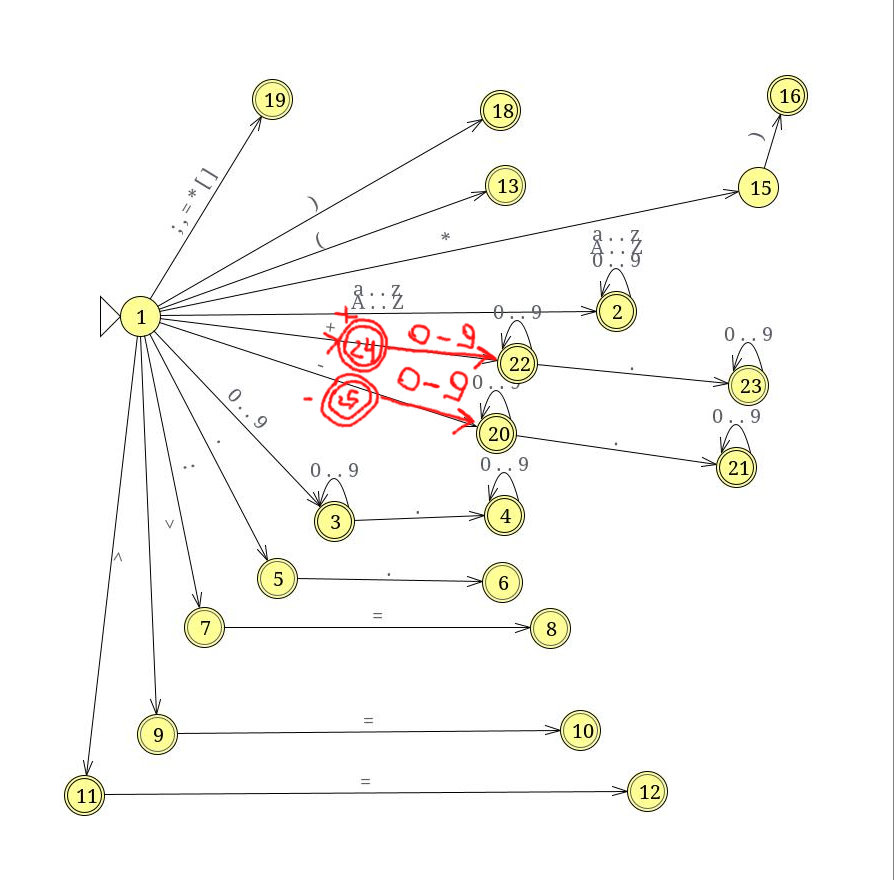
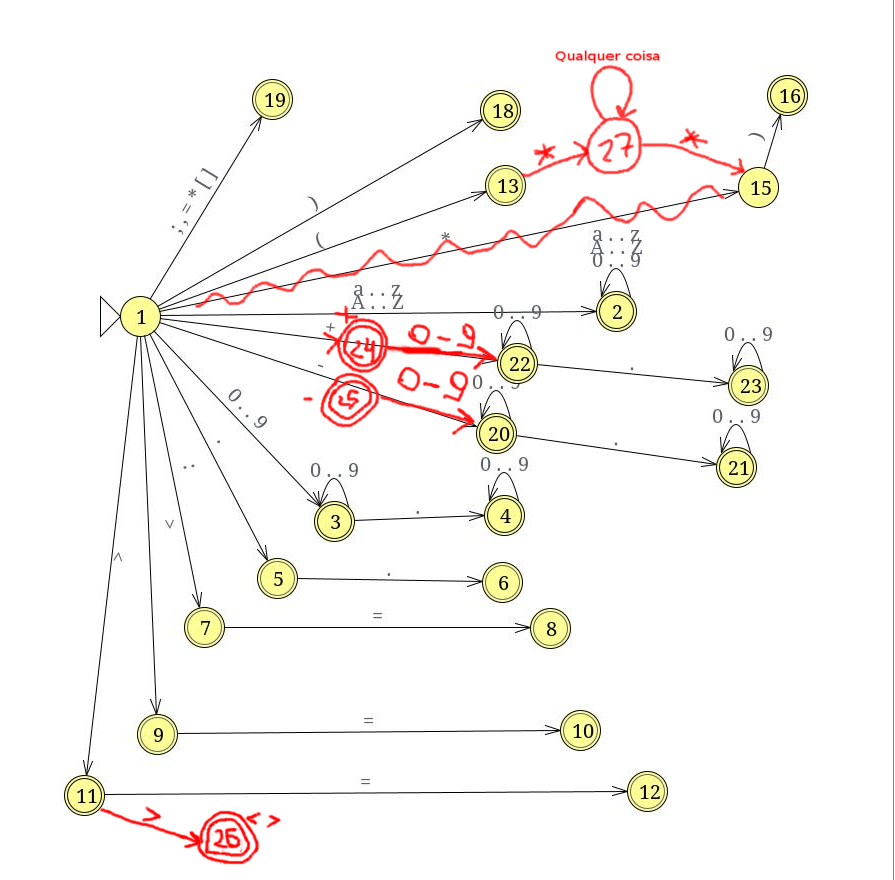
Lexico pronto

diff --git a/lexico.py b/lexico.py
@@ -71,6 +71,10 @@ def get_column(c):
         return 16
     elif c == '-':
         return 17
+    elif c == ';':
+        return 18
+    elif c == '/':
+        return 19
     else:
         return -1
 
@@ -81,7 +85,7 @@ def is_final(state):
         return 0
     elif state == 14:
         return 0
-    elif state > 24 or state < 0:
+    elif state > 25 or state < 0:
         return 0
     else:
         return 1
@@ -124,6 +128,8 @@ def get_token(state):
         return "Mais"
     elif state == 24:
         return "Menos"
+    elif state == 25:
+        return "Diferente"
     else:
         return ""
 
@@ -146,6 +152,8 @@ def get_special_token(c):
         return "Chave_esq"
     elif c == '}':
         return "Chave_dir"
+    elif c == '/':
+        return "Divisao"
 
 #Se o caractere passado estiver em [a,b], retorna 1
 #Retorna 0, caso contrario
@@ -171,37 +179,39 @@ def identifiers(dic, string, str_final):
 
     str_final = str_final + "\n"
     return str_final
-#   a-z, 0-9, . , ' , , , : , ) , = , * , [ , ] , { , } , < , > , ( ,  + , -
+#   a-z, 0-9, . , ' , , , : , ) , = , * , [ , ] , { , } , < , > , ( ,  + , - , ; , /
 
 states = [
-    [1 , 2  , 4 , 18, 18, 6, 17, 18, 18, 18, 18, 18, 18, 10, 8 , 12 , 23, 24], #Estado 0
-    [1 , 1  , -1, -1, -1, -1, -1, -1, -1, -1, -1, -1, -1, -1, -1, -1, -1, -1], #Estado 1
-    [-1, 2  , 3 , -1, -1, -1, -1, -1, -1, -1, -1, -1, -1, -1, -1, -1, -1, -1], #Estado 2
-    [-1, 3  , -1, -1, -1, -1, -1, -1, -1, -1, -1, -1, -1, -1, -1, -1, -1, -1], #Estado 3
-    [-1, -1 , 5 , -1, -1, -1, -1, -1, -1, -1, -1, -1, -1, -1, -1, -1, -1, -1], #Estado 4
-    [-1, -1 , -1, -1, -1, -1, -1, -1, -1, -1, -1, -1, -1, -1, -1, -1, -1, -1], #Estado 5
-    [-1, -1 , -1 , -1, -1, -1, -1, 7, -1, -1, -1, -1, -1, -1, -1, -1, -1, -1], #Estado 6
-    [-1, -1 , -1, -1, -1, -1, -1, -1, -1, -1, -1, -1, -1, -1, -1, -1, -1, -1], #Estado 7
-    [-1, -1 , -1, -1, -1, -1, -1, 9 , -1, -1, -1, -1, -1, -1, -1, -1, -1, -1], #Estado 8
-    [-1, -1 , -1, -1, -1, -1, -1, -1, -1, -1, -1, -1, -1, -1, -1, -1, -1, -1], #Estado 9
-    [-1, -1 , -1, -1, -1, -1, -1, 11, -1, -1, -1, -1, -1, -1, -1, -1, -1, -1], #Estado 10
-    [-1, -1 , -1, -1, -1, -1, -1, -1, -1, -1, -1, -1, -1, -1, -1, -1, -1, -1], #Estado 11
-    [-1, -1 , -1, -1, -1, -1, -1, -1, -1, -1, -1, -1, -1, -1, -1, -1, -1, -1], #Estado 12
-    [-1, -1 , -1, -1, -1, -1, -1, -1, -1, -1, -1, -1, -1, -1, -1, -1, -1, -1], #Estado 13
-    [-1, -1 , -1, -1, -1, -1, 15, -1, -1, -1, -1, -1, -1, -1, -1, -1, -1, -1], #Estado 14
-    [-1, -1 , -1, -1, -1, -1, -1, -1, -1, -1, -1, -1, -1, -1, -1, -1, -1, -1], #Estado 15
-    [-1, -1 , -1, -1, -1, -1, -1, -1, -1, -1, -1, -1, -1, -1, -1, -1, -1, -1], #Estado 16
-    [-1, -1 , -1, -1, -1, -1, -1, -1, -1, -1, -1, -1, -1, -1, -1, -1, -1, -1], #Estado 17
-    [-1, -1 , -1, -1, -1, -1, -1, -1, -1, -1, -1, -1, -1, -1, -1, -1, -1, -1], #Estado 18
-    [-1, 19 , 20, -1, -1, -1, -1, -1, -1, -1, -1, -1, -1, -1, -1, -1, -1, -1], #Estado 19
-    [-1, 20 , -1, -1, -1, -1, -1, -1, -1, -1, -1, -1, -1, -1, -1, -1, -1, -1], #Estado 20
-    [-1, 21 , 22, -1, -1, -1, -1, -1, -1, -1, -1, -1, -1, -1, -1, -1, -1, -1], #Estado 21
-    [-1, 22 , -1, -1, -1, -1, -1, -1, -1, -1, -1, -1, -1, -1, -1, -1, -1, -1], #Estado 22
-    [-1, 21 , -1, -1, -1, -1, -1, -1, -1, -1, -1, -1, -1, -1, -1, -1, -1, -1], #Estado 23
-    [-1, 19 , -1, -1, -1, -1, -1, -1, -1, -1, -1, -1, -1, -1, -1, -1, -1, -1]  #Estado 24
+    [1 , 2  , 4 , 18, 18, 6, 17, 18, 18, 18, 18, 18, 18, 10, 8 , 12 , 23, 24 , 18,18], #Estado 0
+    [1 , 1  , -1, -1, -1, -1, -1, -1, -1, -1, -1, -1, -1, -1, -1, -1, -1, -1 ,-1 ,-1], #Estado 1
+    [-1, 2  , 3 , -1, -1, -1, -1, -1, -1, -1, -1, -1, -1, -1, -1, -1, -1, -1 ,-1 ,-1], #Estado 2
+    [-1, 3  , -1, -1, -1, -1, -1, -1, -1, -1, -1, -1, -1, -1, -1, -1, -1, -1 ,-1 ,-1], #Estado 3
+    [-1, -1 , 5 , -1, -1, -1, -1, -1, -1, -1, -1, -1, -1, -1, -1, -1, -1, -1 ,-1 ,-1], #Estado 4
+    [-1, -1 , -1, -1, -1, -1, -1, -1, -1, -1, -1, -1, -1, -1, -1, -1, -1, -1 ,-1 ,-1], #Estado 5
+    [-1, -1 , -1 , -1, -1, -1, -1, 7, -1, -1, -1, -1, -1, -1, -1, -1, -1, -1 ,-1 ,-1], #Estado 6
+    [-1, -1 , -1, -1, -1, -1, -1, -1, -1, -1, -1, -1, -1, -1, -1, -1, -1, -1 ,-1 ,-1], #Estado 7
+    [-1, -1 , -1, -1, -1, -1, -1, 9 , -1, -1, -1, -1, -1, -1, -1, -1, -1, -1 ,-1 ,-1], #Estado 8
+    [-1, -1 , -1, -1, -1, -1, -1, -1, -1, -1, -1, -1, -1, -1, -1, -1, -1, -1 ,-1 ,-1], #Estado 9
+    [-1, -1 , -1, -1, -1, -1, -1, 11, -1, -1, -1, -1, -1, -1, 25, -1, -1, -1 ,-1 ,-1], #Estado 10
+    [-1, -1 , -1, -1, -1, -1, -1, -1, -1, -1, -1, -1, -1, -1, -1, -1, -1, -1 ,-1 ,-1], #Estado 11
+    [-1, -1 , -1, -1, -1, -1, -1, -1, 26, -1, -1, -1, -1, -1, -1, -1, -1, -1 ,-1 ,-1], #Estado 12
+    [-1, -1 , -1, -1, -1, -1, -1, -1, -1, -1, -1, -1, -1, -1, -1, -1, -1, -1 ,-1 ,-1], #Estado 13
+    [-1, -1 , -1, -1, -1, -1, 15, -1, -1, -1, -1, -1, -1, -1, -1, -1, -1, -1 ,-1 ,-1], #Estado 14
+    [-1, -1 , -1, -1, -1, -1, -1, -1, -1, -1, -1, -1, -1, -1, -1, -1, -1, -1 ,-1 ,-1], #Estado 15
+    [-1, -1 , -1, -1, -1, -1, -1, -1, -1, -1, -1, -1, -1, -1, -1, -1, -1, -1 ,-1 ,-1], #Estado 16
+    [-1, -1 , -1, -1, -1, -1, -1, -1, -1, -1, -1, -1, -1, -1, -1, -1, -1, -1 ,-1 ,-1], #Estado 17
+    [-1, -1 , -1, -1, -1, -1, -1, -1, -1, -1, -1, -1, -1, -1, -1, -1, -1, -1 ,-1 ,-1], #Estado 18
+    [-1, 19 , 20, -1, -1, -1, -1, -1, -1, -1, -1, -1, -1, -1, -1, -1, -1, -1 ,-1 ,-1], #Estado 19
+    [-1, 20 , -1, -1, -1, -1, -1, -1, -1, -1, -1, -1, -1, -1, -1, -1, -1, -1 ,-1 ,-1], #Estado 20
+    [-1, 21 , 22, -1, -1, -1, -1, -1, -1, -1, -1, -1, -1, -1, -1, -1, -1, -1 ,-1 ,-1], #Estado 21
+    [-1, 22 , -1, -1, -1, -1, -1, -1, -1, -1, -1, -1, -1, -1, -1, -1, -1, -1 ,-1 ,-1], #Estado 22
+    [-1, 21 , -1, -1, -1, -1, -1, -1, -1, -1, -1, -1, -1, -1, -1, -1, -1, -1 ,-1 ,-1], #Estado 23
+    [-1, 19 , -1, -1, -1, -1, -1, -1, -1, -1, -1, -1, -1, -1, -1, -1, -1, -1 ,-1 ,-1], #Estado 24
+    [-1, -1 , -1, -1, -1, -1, -1, -1, -1, -1, -1, -1, -1, -1, -1, -1, -1, -1 ,-1 ,-1], #Estado 25
+    [-1, -1 , -1, -1, -1, -1, -1, -1, -1, -1, -1, -1, -1, -1, -1, -1, -1, -1 ,-1 ,-1]  #Estado 26
 ]
 print("Analisador Lexico\nPara sair, digite \'exit()\'\n\n\n")
-line = input("Digite sua entrada de dados: ")
+line = input("Digite sua entrada de dados: ").lower()
 
 #Inicializando tabela de palavras-chave/identificadores
 dic = SymbolsTab()
@@ -224,7 +234,6 @@ while line != '' :
         if is_char(c) and current == 0:
             start_char = j
 
-
         j = j + 1
         column = get_column(c)
         #Se o simbolo lido pertencer ao alfabeto
@@ -236,6 +245,7 @@ while line != '' :
                 #Se o proximo estado eh um estado final, confirmamos a leitura lida ate aqui
                 if is_final(next):
                     last_final = current
+                    # print("Last_final: " + str(last_final))
                     cm = j
                     #Se chegou no final da linha
                     if j == len(line):
@@ -255,7 +265,7 @@ while line != '' :
                             cm = j
                         else:
                             if last_final != 18:
-                                # print("1:Token lido: " + get_token(last_final)
+                                # print("1:Token lido: " + get_token(last_final))
                                 str_final = str_final + get_token(last_final) + "\n"
                                 # print(str_final)
                                 j = cm
@@ -357,11 +367,12 @@ while line != '' :
 
 
     if cond_error:
-        print("\033[01;32m")
+        print("\033[01;31m")
         print("\nErro lexico em:\n\033[00;37m" + line)
         for k in range(1, indexError):
             print(" ", end = "")
         print("\033[01;32m^\033[00;37m\n\n\n")
     else:
         print(str_final)
-    line = input("Digite sua entrada de dados: ")
+    line = input("Digite sua entrada de dados: ").lower()
+    # line = line.lower()

diff --git a/symbols.py b/symbols.py
@@ -1,6 +1,6 @@
 class SymbolsTab:
     def __init__(self):
-        self.dic = {"and":25,"array":26,"asm":27,"begin":28,
+        self.dic = {"array":26,"asm":27,"begin":28,
         "case":29, "const":30, "constructor": 31, "destructor":32,
         "div":33, "do":34, "downto": 35, "else": 36, "End": 37,
         "File": 38, "For": 39, "Foward": 40, "Function": 41, "Goto": 42,
@@ -10,7 +10,7 @@ class SymbolsTab:
         "program": 57, "record": 58, "repeat": 59, "set": 60, "shl": 61,
         "shr": 62, "string": 63, "then": 64, "to": 65, "type": 66,
         "unit": 67, "until": 68, "uses": 69, "var": 70, "while": 71,
-        "with": 72, "xor": 73}
+        "with": 72, "xor": 73, "and": 74}
 
 
     #Acessa a tabela de simbolos, se a string existir na mesma e
